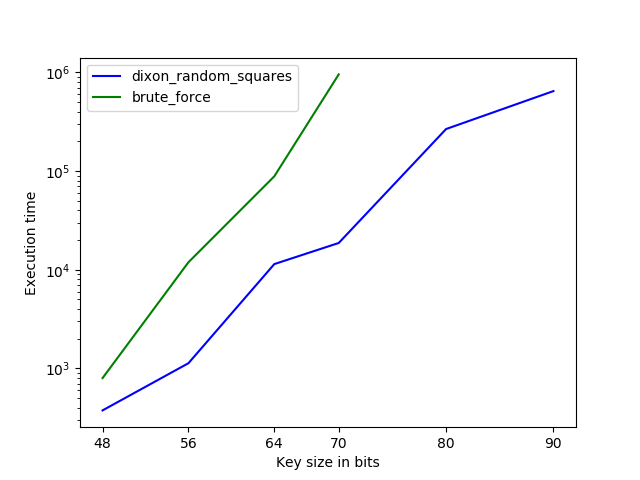
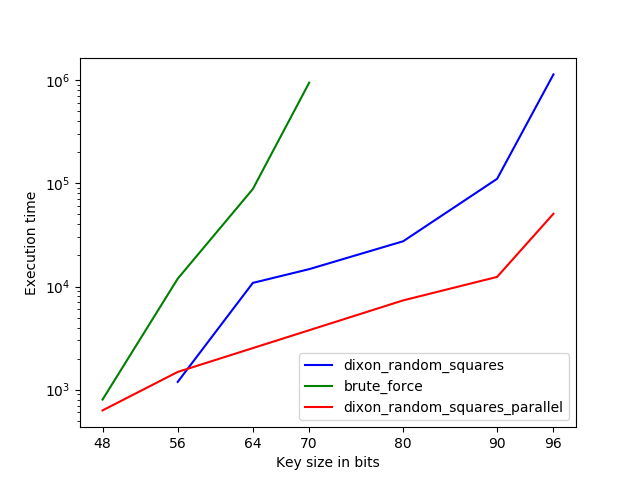
gathered data

diff --git a/factorizer/dixon_random_squares/rsa_dixon_random_squares.py b/factorizer/dixon_random_squares/rsa_dixon_random_squares.py
@@ -2,68 +2,71 @@ import math
 import numpy as np
 import time
 
-from interface import implements, Interface
+from interface import implements
 
 from factorizer.quadratic_sieve.matrix_operations import build_index_matrix, solve_matrix_opt
 from factorizer.rsa_factorizer import rsa_factorizer
+from helper.cryptographic_methods import sqrt_int
 from helper.primes_sieve import primes_sieve
 
 
 def factorize_number_from_primes(number, primes):
     factorized_number_binary_row = [0] * (len(primes))
-    factorized_number_row = [0] * (len(primes))
     a = number
     for (index, prime) in enumerate(primes):
         exp = 0
         while a % prime == 0:
             a //= prime
             exp += 1
-        if exp > 0:
-            factorized_number_row[index] = exp
-            factorized_number_binary_row[index] = exp % 2
+        factorized_number_binary_row[index] = exp % 2
         if a == 1:
-            return factorized_number_binary_row, factorized_number_row
-    return None, None
+            return factorized_number_binary_row
+    return None
+
+
+def factor_from_square(n, square_indices, smooth_relations):
+    res = [1, 1]
+    for idx in square_indices:
+        res[0] *= smooth_relations[idx][0]
+        res[1] *= smooth_relations[idx][1]
+    res[1] = sqrt_int(res[1])
+    return math.gcd(res[0] + res[1], n)
 
 
 class rsa_dixon_random_squares(implements(rsa_factorizer)):
     def __init__(self, n, e, test_congruence):
         self.test_congruence = test_congruence
-        self.n = n
+        self.n = 14137
         self.e = e
-        k = int(math.exp(0.5 * math.sqrt(math.log1p(self.n) * math.log1p(math.log1p(self.n)))))
+        k = 8 #int(math.exp(0.4 * math.sqrt(math.log1p(self.n) * math.log1p(math.log1p(self.n)))))
         self.B = primes_sieve(k)
 
-    def build_up_test_values(self, c):
-        Z = np.array([None] * (len(self.B) + 1))
-        all_rows_in_factor = [None] * (len(self.B) + 1)
-        all_rows_in_binary_factor = [None] * (len(self.B) + 1)
-        j = 0
-        i = 0
-        while i < len(self.B) + 1:
+    def find_smooth_relations(self, c, stop_factor, j, smooth_relations, binary_matrix):
+        stop_condition = math.ceil(len(self.B) * stop_factor)
+        while len(smooth_relations) < stop_condition:
             j = j + 1
-            Z[i] = math.ceil(math.sqrt(j * self.n)) + c
-            number = Z[i] ** 2 % self.n
-            factorized_binary_number_row, factorized_number_row = factorize_number_from_primes(number, self.B)
-            if factorized_number_row is not None:
-                all_rows_in_binary_factor[i] = factorized_binary_number_row
-                all_rows_in_factor[i] = factorized_number_row
-                i = i + 1
-        return Z, np.array(all_rows_in_binary_factor), np.array(all_rows_in_factor)
+            Z = math.ceil(math.sqrt(j * self.n)) + c
+            Z_squared = int(Z ** 2 % self.n)
+            factorized_binary_number_row = factorize_number_from_primes(Z_squared, self.B)
+            if factorized_binary_number_row is not None:
+                smooth_relations.append((Z, Z_squared))
+                binary_matrix.append(factorized_binary_number_row)
+        return smooth_relations, binary_matrix, j
 
     def factorize(self, c=1):
-        print("start building up matrices")
-        start_time = int(round(time.time() * 1000))
-        Z, all_rows_in_binary_factor, all_rows_in_factor = self.build_up_test_values(c)
-        end_time = int(round(time.time() * 1000))
-        print("Building: " + str(end_time - start_time))
-        print("end building up matrices")
-        print("start echelon")
-        M_opt, M_n, M_m = build_index_matrix(all_rows_in_binary_factor)
-        perfect_squares = solve_matrix_opt(M_opt, M_n, M_m)
-        for square_indices in perfect_squares:
-            p, q = self.test_congruence.validate(square_indices, Z, all_rows_in_factor, self.B, self.n)
-            if p is not None and q is not None:
-                return p, q
-
-        return self.factorize(c + 1)
+        stop_factor = 1.00
+        p = 1
+        j = 0
+        smooth_relations = []
+        binary_matrix = []
+        while p == 1 or p == self.n:
+            stop_factor += 0.02
+            smooth_relations, binary_matrix, j = self.find_smooth_relations(c, stop_factor, j, smooth_relations, binary_matrix)
+            M_opt, M_n, M_m = build_index_matrix(binary_matrix)
+            perfect_squares = solve_matrix_opt(M_opt, M_n, M_m)
+            print("Done")
+            for square_indices in perfect_squares:
+                p = factor_from_square(self.n, square_indices, smooth_relations)
+                if p != 1 and p != self.n:
+                    break
+        return p, int(self.n / p)

diff --git a/factorizer/quadratic_sieve/matrix_operations.py b/factorizer/quadratic_sieve/matrix_operations.py
@@ -74,5 +74,4 @@ def solve_matrix_opt(M_opt, n, m):
                     c += 1
                     perfect_sq_indices.append(pivots[j])
             perf_squares.append(perfect_sq_indices)
-            print(c)
     return perf_squares
